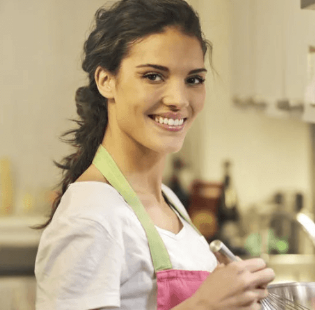
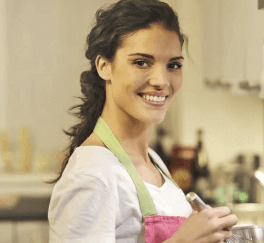
compressing images

diff --git a/index.html b/index.html
@@ -77,7 +77,7 @@
         <section id="chefs"> 
     
             <div class="chef-1">
-            <img class="chefs-image" src="/assets/Images/chefmiguel.png" alt="A picture of mand that is chef">
+            <img class="chefs-image" src="/assets/Images/chefmiguel.webp" alt="A picture of mand that is chef">
             <figcaption>
                 <br><strong> Miquel Ferran Gomez Figueroa </strong>
                 <br> Graduated in Culinary Institute Barcelona, owns a very well-known restaurant. 
@@ -86,7 +86,7 @@
             
             </div>
             <div class="chef-2">
-                <img class="chefs-image" src="/assets/Images/chefandrea.png" alt="A picture of lady chef">
+                <img class="chefs-image" src="/assets/Images/chefandrea.webp" alt="A picture of lady chef">
                 <figcaption> 
                     <br><strong> Andrea Piacquadio </strong>
                     <br class="chef-background"> Italian background chef specialized in bakery, very well known for her amazing deserts.
@@ -95,7 +95,7 @@
             </div>
     
             <div class="chef-3">
-                <img class="chefs-image"  src="/assets/Images/chefhelena.png" alt="A picture of lady that is a chef">
+                <img class="chefs-image"  src="/assets/Images/chefhelena.webp" alt="A picture of lady that is a chef">
                 <figcaption>
                     <br><strong> Helena Padillo </strong>
                     <br> Graduated in Le Cordon Bleu Paris and more than 30 years of experience.
@@ -105,7 +105,7 @@
             </div>
     
             <div class="chef-4">
-                <img class="chefs-image" src="/assets/Images/cheftirard.png" alt="A picture of male that is a chef">
+                <img class="chefs-image" src="/assets/Images/cheftirard.webp" alt="A picture of male that is a chef">
                 <figcaption>
                     <br> <strong> Tirachard Kumtanom </strong>
                     <br>Sous Chef in a Michealan Star restaurant specialized in molecular gastronomy.
@@ -116,7 +116,7 @@
 
     </section>
 
-    <p>
+    
         <footer>
             <ul class="social-networks">
                 <li>

diff --git a/assets/css/style.css b/assets/css/style.css
@@ -136,40 +136,47 @@ h2 {
 
     position: absolute;
 }
-/*Reasons Description of the website */ 
+
+/*Reasons Description of the website */
 #reasons {
     display: flex;
     justify-content: center;
     margin-bottom: 5%;
     margin-top: 10%;
 }
+
 .reasons p {
     color: white;
 }
+
 .reasons h2 {
     background-color: #e27100;
     margin: 2px;
 }
-  .reasons-image {
-width: 33%;
-height: 30%;
-  }
 
-  @media (min-width: 40rem) {
+.reasons-image {
+    width: 33%;
+    height: 30%;
+}
+
+@media (min-width: 40rem) {
     .reasons {
-      flex-direction: row;
+        flex-direction: row;
     }
-  .reasons {
-    flex-basis: 30%;
-  }
-  }
-  @media (max-width: 600px) {
+
+    .reasons {
+        flex-basis: 30%;
+    }
+}
+
+@media (max-width: 600px) {
 
     div.reasons {
         flex-direction: column;
 
-    } 
+    }
 }
+
 .signupbutton {
     background-color: #ff9100;
     text-align: center;
@@ -184,17 +191,20 @@ height: 30%;
 }
 
 /*Teachers */
-.teamgreeting{
+.teamgreeting {
     clear: both;
     text-align: center;
     font-size: large;
     background-color: #ff9100;
     border-radius: 50%;
 
-    
+
 }
 
-.chef-1, .chef-2, .chef-3, .chef-4 {
+.chef-1,
+.chef-2,
+.chef-3,
+.chef-4 {
 
     display: inline-block;
     width: 33%;
@@ -211,12 +221,12 @@ height: 30%;
     background-color: rgb(0, 0, 0);
     padding: 10px;
     margin-top: 10%;
-   
-} 
+
+}
 
 
 figcaption {
-  
+
     display: inline-block;
     font-size: 15px;
     line-height: 1.5;
@@ -232,15 +242,19 @@ figcaption {
 }
 
 @media screen and (max-width: 500px) {
-  
-    .chef-1, .chef-2, .chef-3, .chef-4 {
+
+    .chef-1,
+    .chef-2,
+    .chef-3,
+    .chef-4 {
         width: 70%;
     }
+
     figcaption {
         width: 70%;
     }
-    
-    
+
+
 }
 
 
@@ -276,6 +290,7 @@ footer {
 .copyright {
     color: white;
 }
+
 /*form */
 
 form {
@@ -339,9 +354,9 @@ text {
     color: #ffffff;
 }
 
-      
+
 #comment {
-    width: 60%;	
+    width: 60%;
     height: 80%;
     margin-top: 20px;
 }
@@ -419,4 +434,5 @@ text {
     div.reasons {
         flex-direction: column;
 
-    } }
+    }
+}
